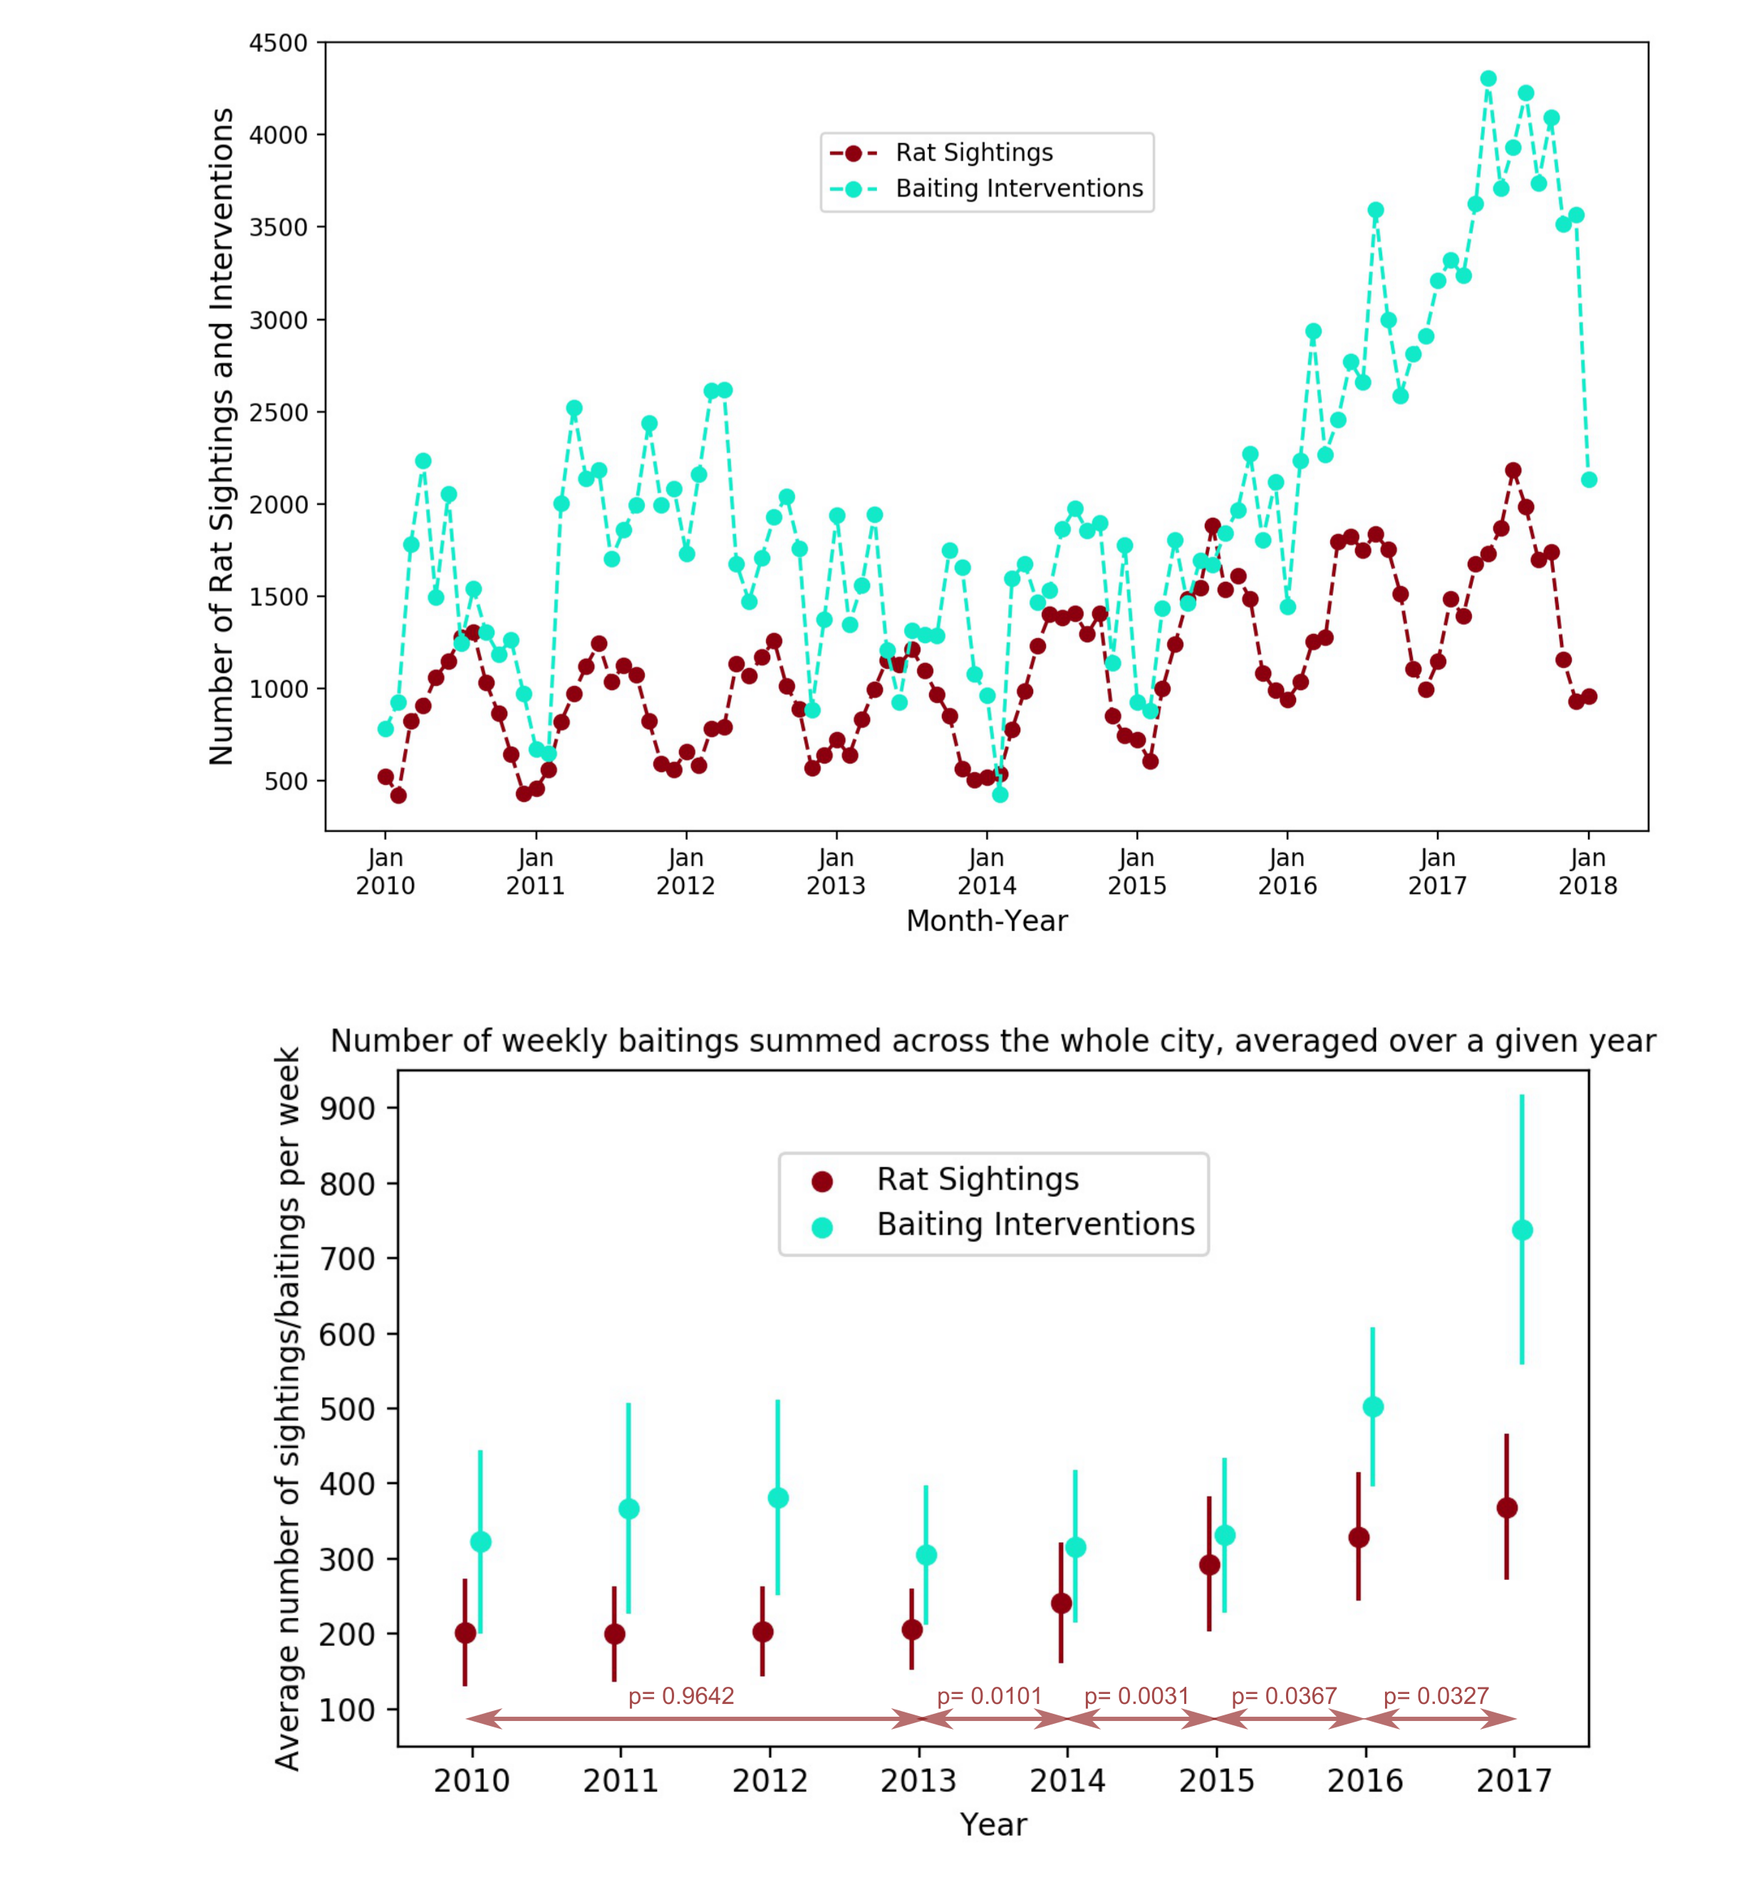
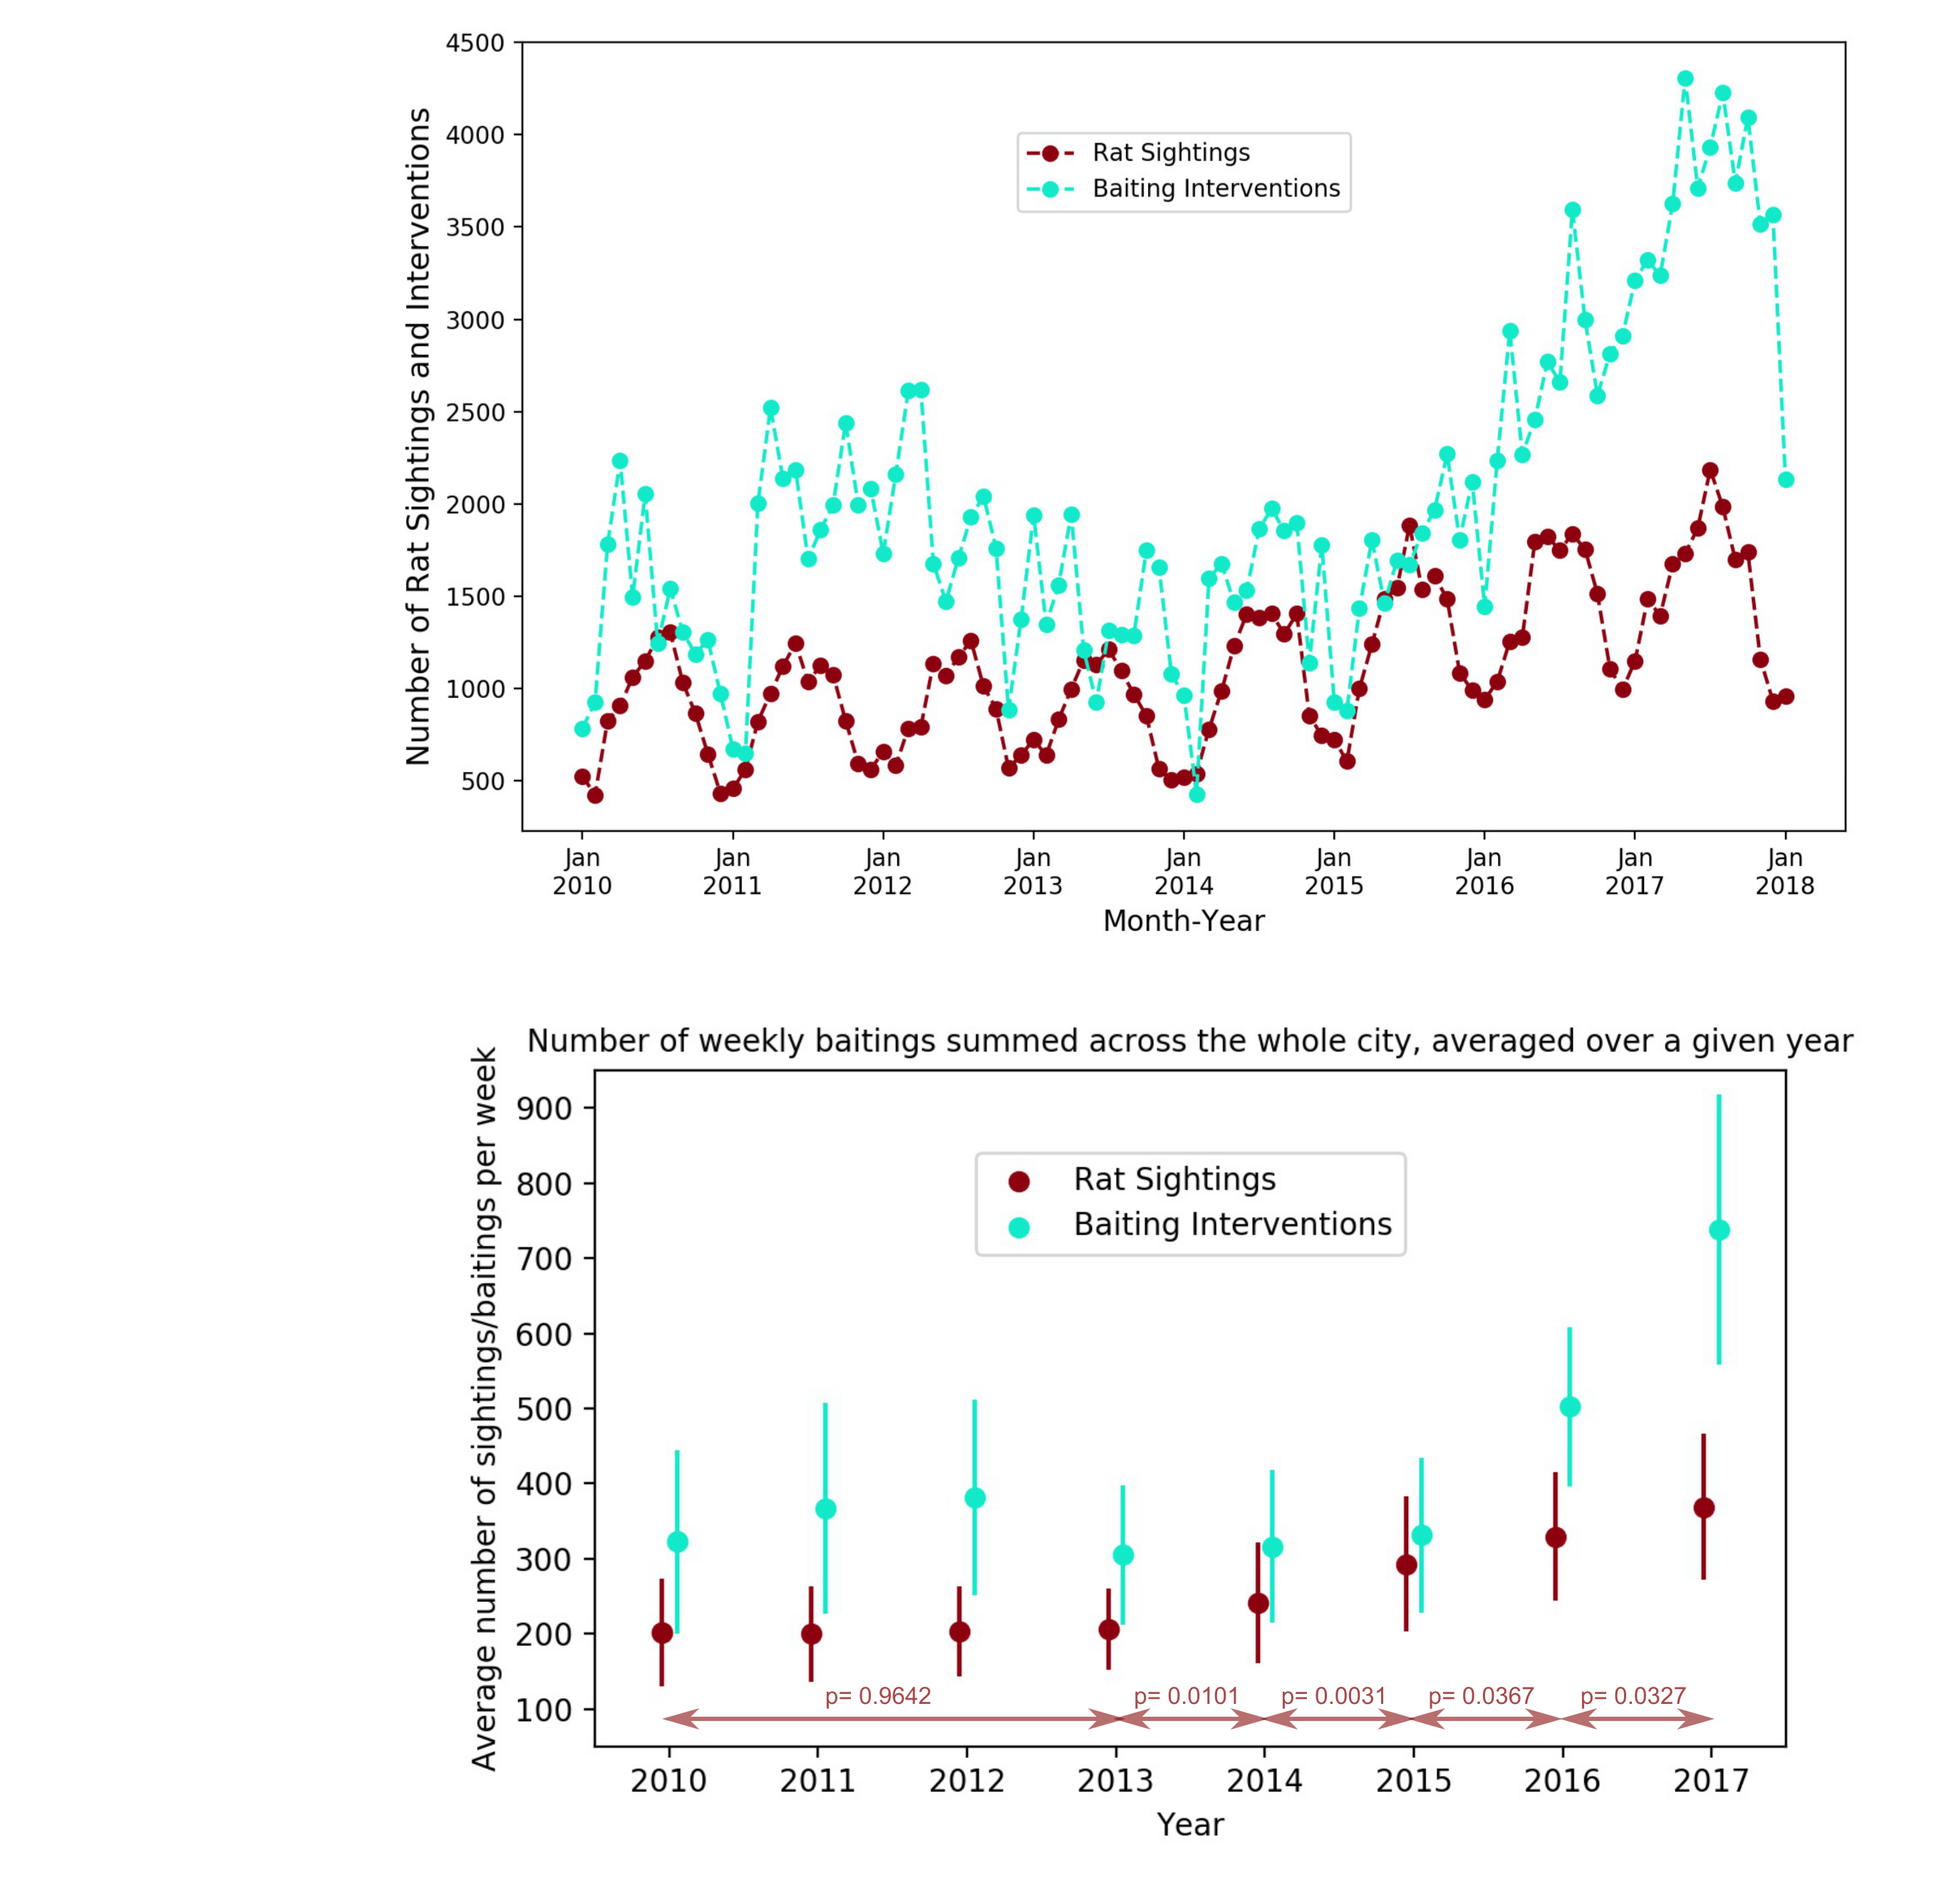
q

diff --git a/InterviewPresentation.md b/InterviewPresentation.md
@@ -16,7 +16,7 @@ So far I extracted intervention events where rodenticide was applied and rat sig
 </div>
 <img src='imgs/animation_small.gif' width=700>
 That is even more visible in the two plots below - the top plot shows the number of rat sightings and interventions per month as a function of time and clearly demonstrates that the number of rat sighting (in crimson) oscillates and on average increases as does the number of interventions (in aqua) which shows a noticeable increase starting in 2016. The bottom plot shows the average number of rat sightings and interventions per week for a given year. I look at weekly number of rat sightings in years 2010-2013 and compare them using a one-way ANOVA.
-<div style="text-align:center"><img src='imgs/SightingsBaitingsByYear_final.jpg'  width=700/></div>
+<img src='imgs/SightingsBaitingsByYear_final.jpg'  width=700>
 <div>
 The obtained p-value equals 0.9642 as is denoted on the bottom plot. From 2013 on I compare weekly number of rat sightings in each year with the year prior by using a two-sample t-tests. The p-values denoted in the bottom plot show that the increase of rat sightings per week in 2014 compared to 2013 is statistically significant.<br><br>
  <b> Conclusion I: From 2013 on, the difference in the number of rat sightings in a given year compared to the year prior is statistically significant.</b>  
